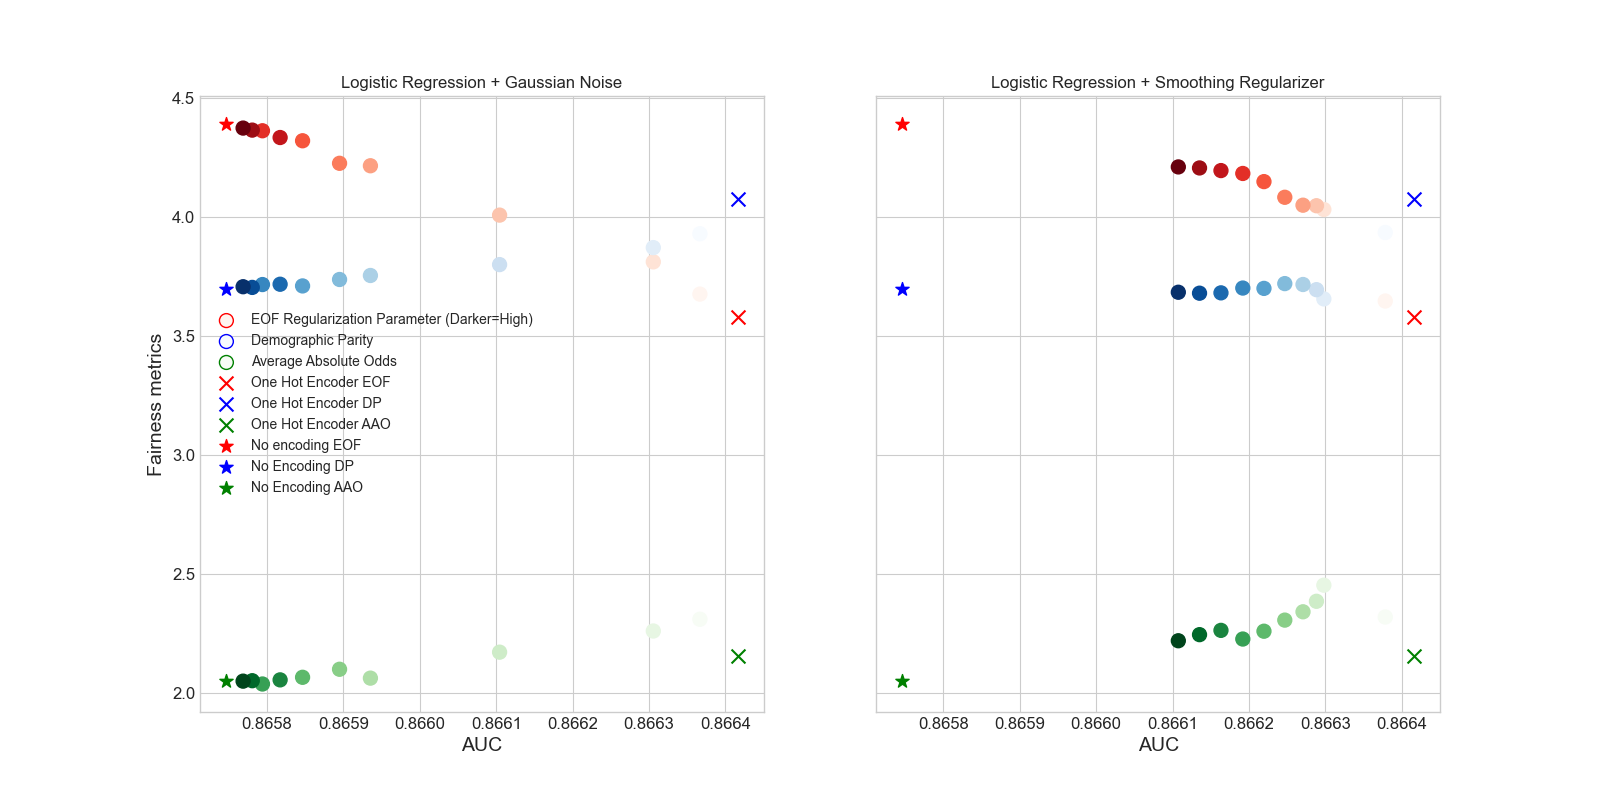
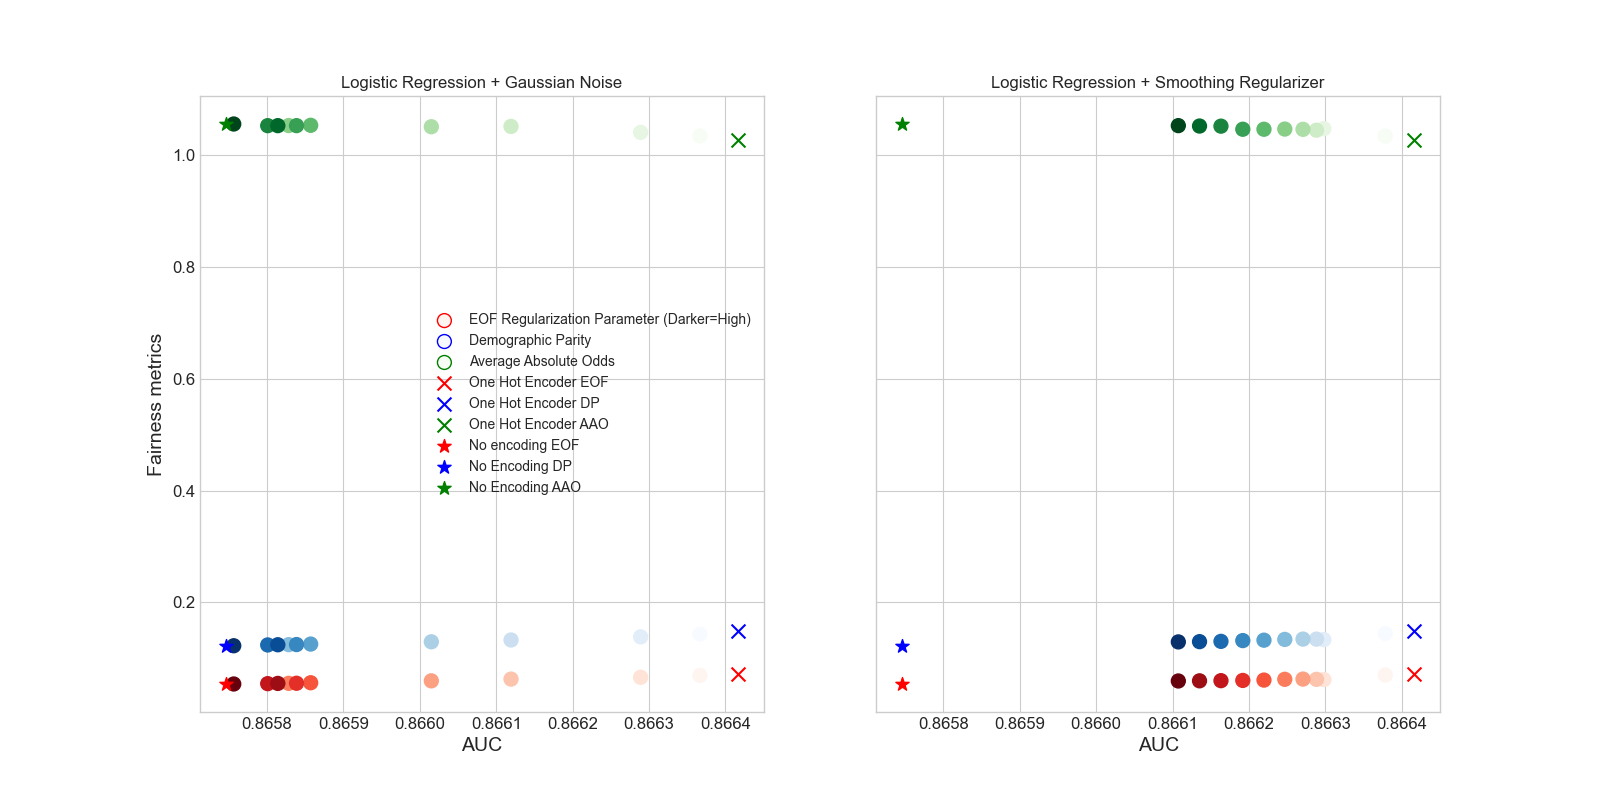
standarize by the mean

diff --git a/FolksEncoding.py b/FolksEncoding.py
@@ -20,6 +20,8 @@ rcParams["ytick.labelsize"] = 12
 rcParams["figure.figsize"] = 16, 8
 import warnings
 
+warnings.filterwarnings("ignore")
+
 from sklearn.pipeline import Pipeline
 from sklearn.linear_model import LogisticRegression
 
@@ -284,12 +286,11 @@ def metric_calculator(
         dp_sum.append(dp)
         aao_sum.append(aao)
 
-    if normalize:
-        if compared_group == "All":
-            eof_sum = MinMaxScaler().fit_transform(np.array(eof_sum).reshape(-1, 1))
-            dp_sum = MinMaxScaler().fit_transform(np.array(dp_sum).reshape(-1, 1))
-            aao_sum = MinMaxScaler().fit_transform(np.array(aao_sum).reshape(-1, 1))
-    return np.abs(eof_sum).sum(), np.absolute(dp_sum).sum(), np.absolute(aao_sum).sum()
+    return (
+        np.abs(eof_sum).mean(),
+        np.absolute(dp_sum).mean(),
+        np.absolute(aao_sum).mean(),
+    )
 
 
 # %%
@@ -302,7 +303,7 @@ metric_calculator(
     modelo=m,
     data=X,
     truth=y,
-    col=COL,
+    col="group",
     reference_group="White",
     compared_group="All",
     normalize=True,
